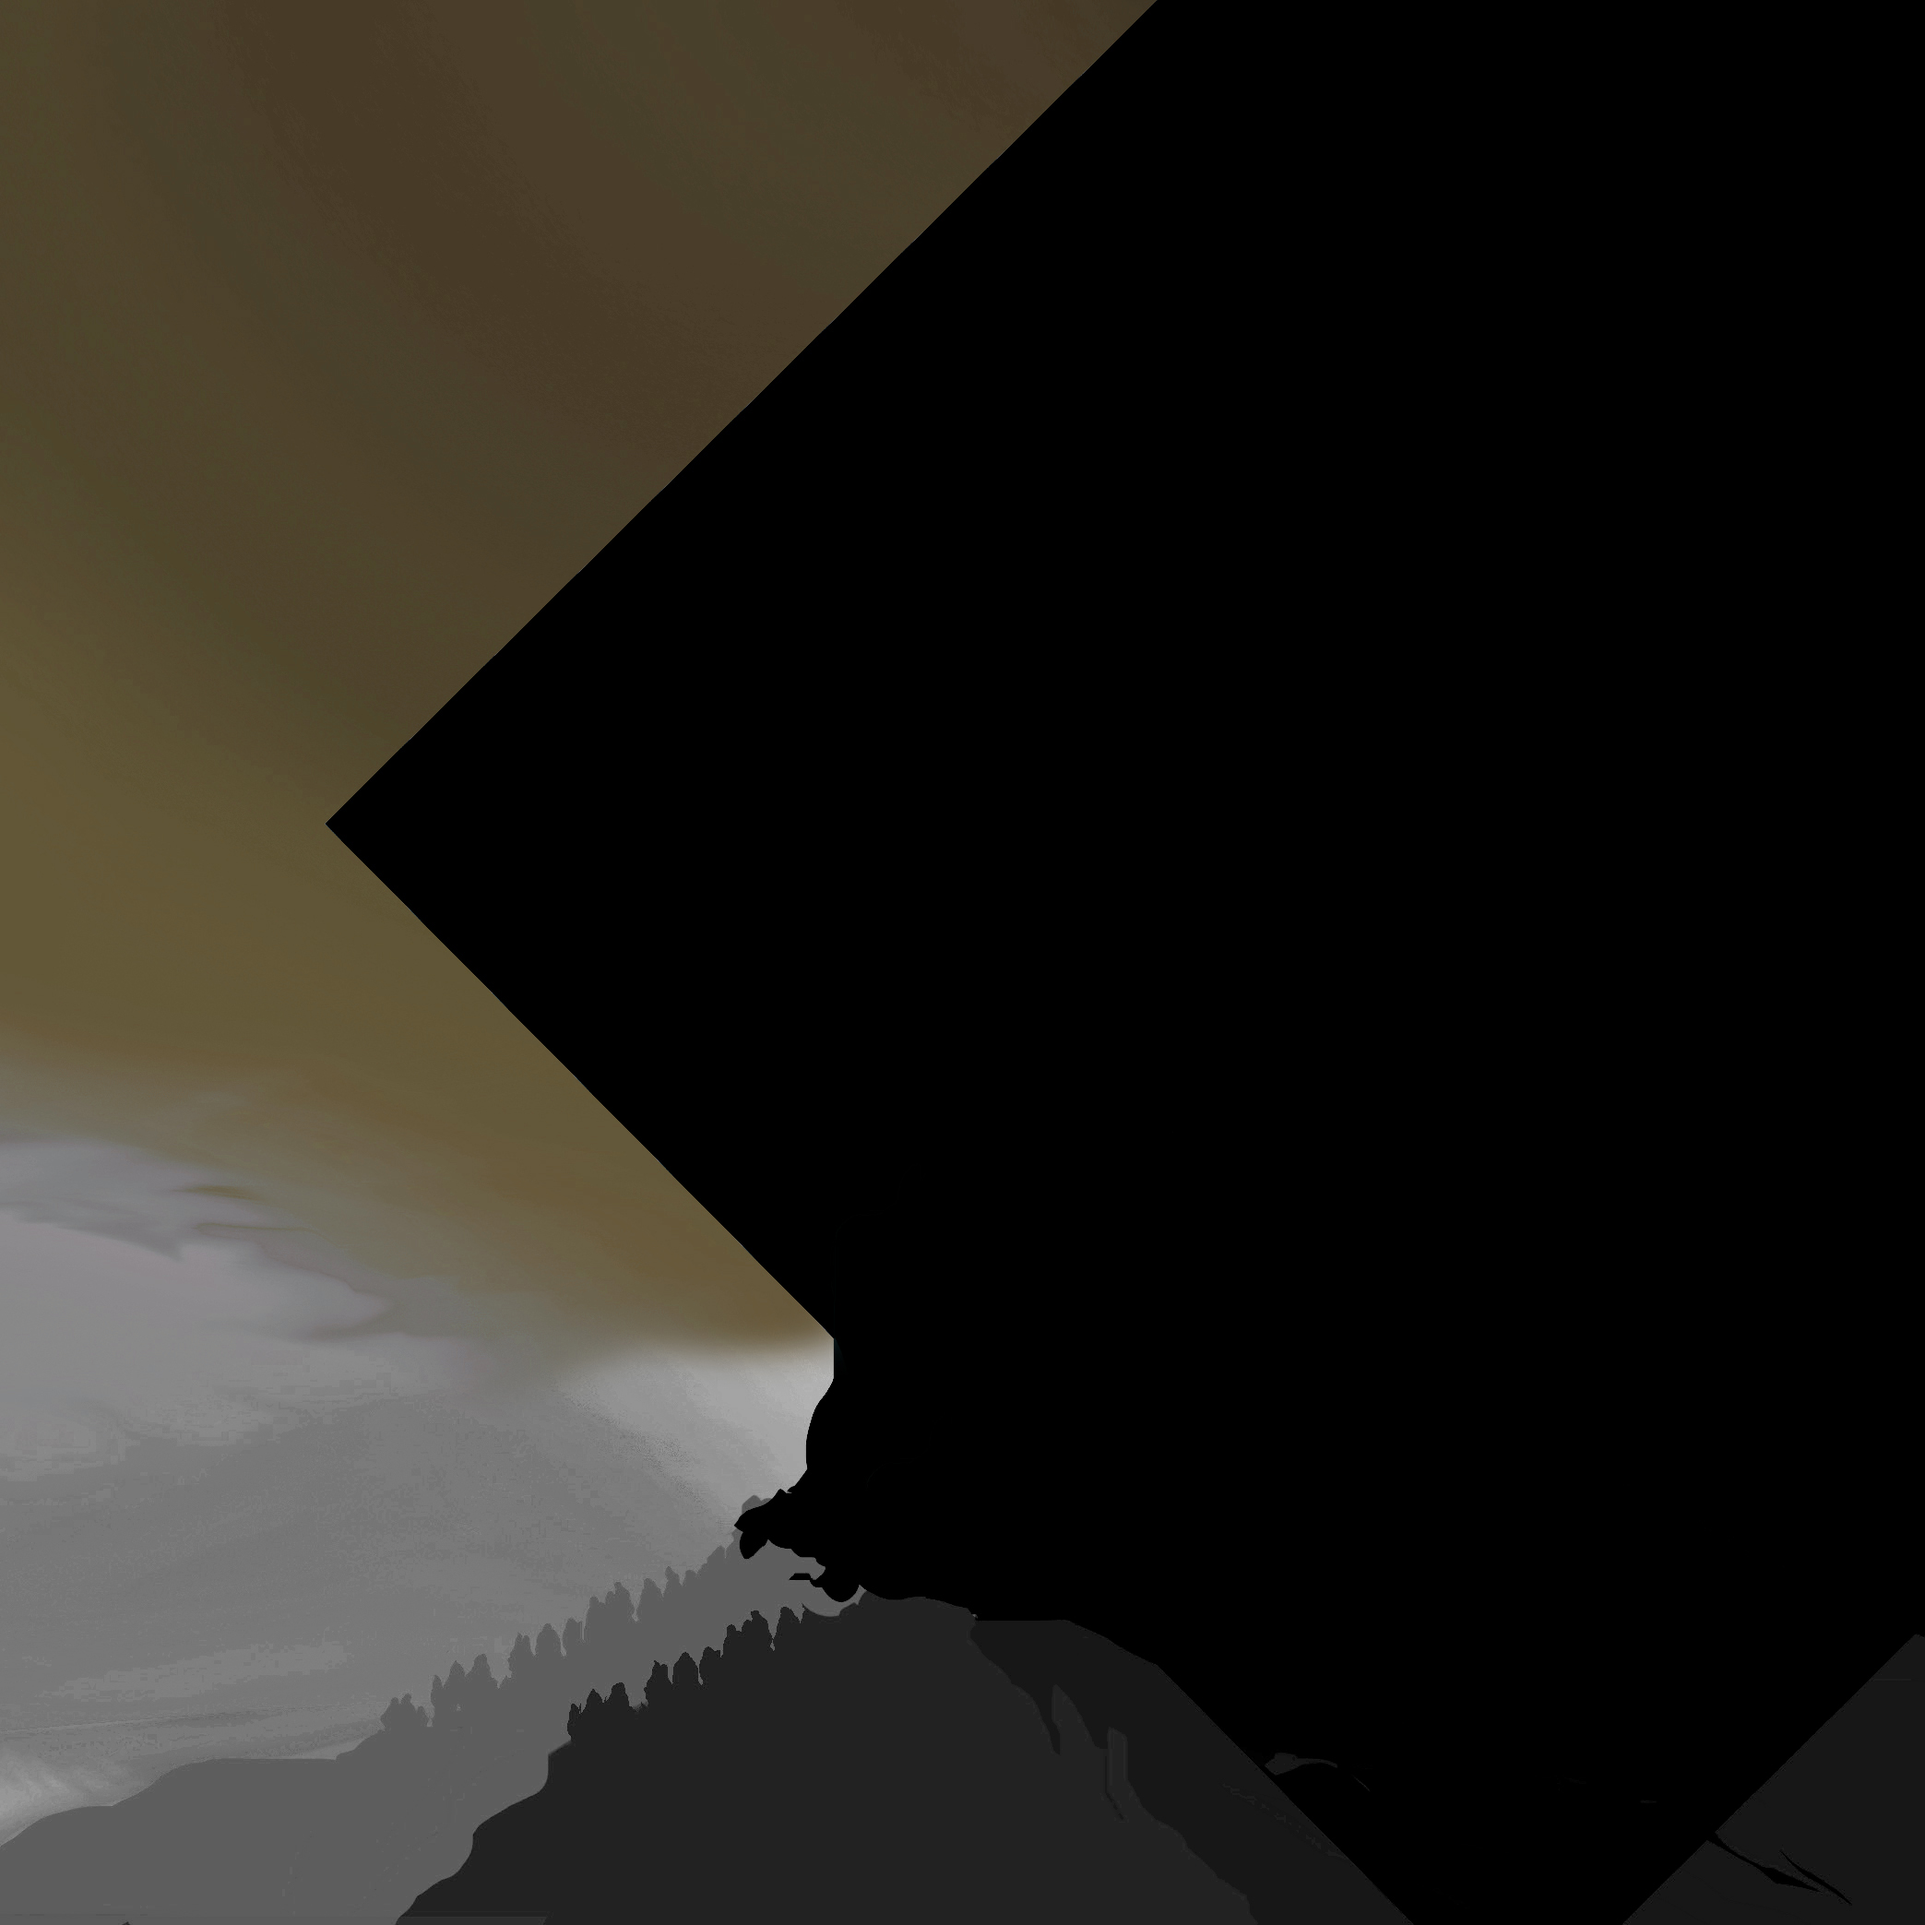
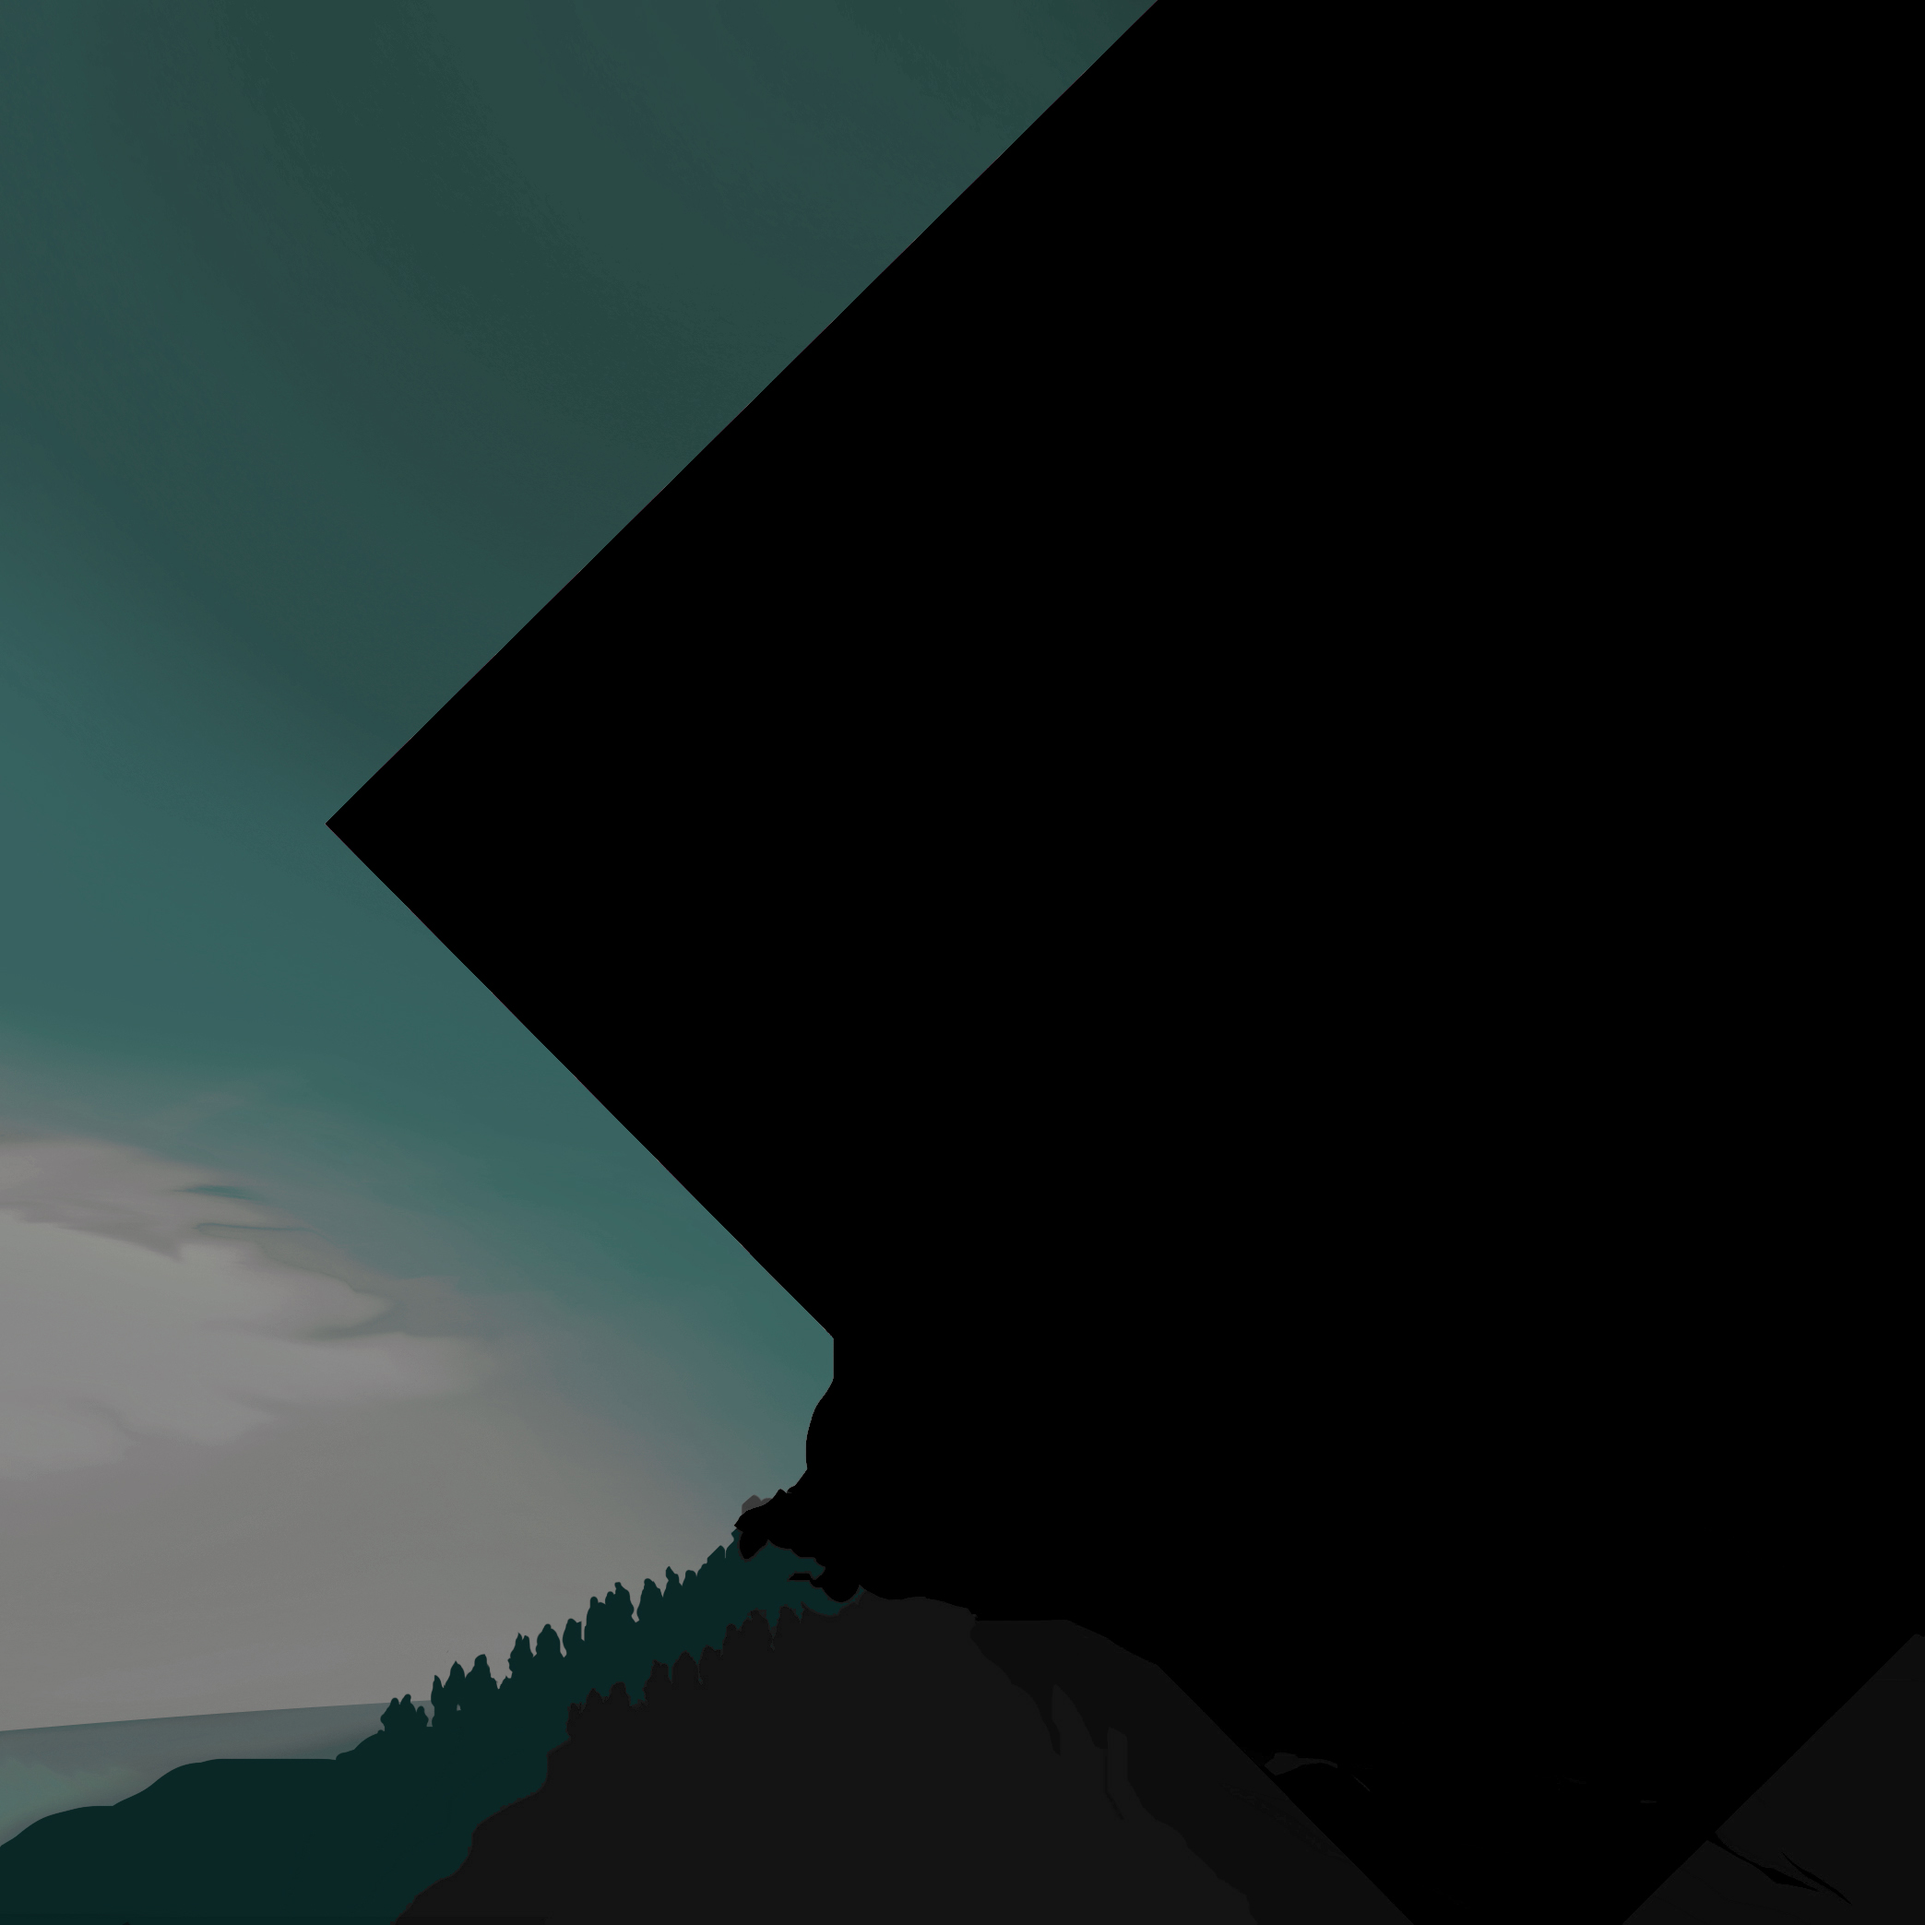
color corregido

Changed region(s): [[0.0, 0.0, 0.5918, 1.0]]

diff --git a/public/css/styles.css b/public/css/styles.css
@@ -12,24 +12,24 @@
 }
 
 body {
-  background-color: #181818;
+  background-color: #1b1b1b;
   border-bottom: 1px solid black;
 }
 
 h1 {
-  color: #f5a13d;
+  color: white;
   font-size: 1.25em;
   font-weight: lighter;
 }
 
 strong {
-  color: #ffbb68;
+  color: #00f8df;
   font-weight: normal;
 }
 
 h2 {
   font-size: 2rem;
-  color: #f5a13d;
+  color: #00f8df;
   font-family: "Space Mono", monospace;
   text-shadow: 0.15rem 0.15rem black;
 }
@@ -77,7 +77,7 @@ header .presentation h1 {
   line-height: 1.7em;
 }
 header .presentation strong {
-  color: white;
+  color: #00f8df;
 }
 header .presentation .avatar {
   border-radius: 100%;
@@ -93,7 +93,7 @@ header .presentation .avatar img {
 }
 
 nav {
-  background-color: #f5a13d;
+  background-color: #00f8df;
   padding: 1.3rem 0 1.3rem 0;
   max-width: 64rem;
   display: flex;
@@ -110,8 +110,8 @@ nav .menu-item {
 nav .menu-item li a {
   border-radius: 5px;
   border: 3px;
-  background-color: #f5a13d;
-  color: white;
+  background-color: #00f8df;
+  color: black;
   padding: 1rem 2rem 1rem 2rem;
   max-width: 8rem;
   text-align: center;
@@ -121,12 +121,12 @@ nav .menu-item li a:hover {
   border-radius: 5px;
   border: 3px;
   background-color: white;
-  color: #0f0707;
+  color: black;
   padding: 1rem 2rem 1rem 2rem;
   max-width: 8rem;
   text-align: center;
   font-weight: bolder;
-  box-shadow: 6px 6px #07224a;
+  box-shadow: 4px 4px black;
 }
 nav .toggle {
   display: none;
@@ -160,20 +160,12 @@ footer hr {
   margin: 0 auto;
 }
 
-.main {
-  max-width: 64rem;
-  color: #cccccc;
-  overflow: auto;
-  height: 45rem;
-  background: #002b3b;
-}
-
 section {
   max-width: 64rem;
 }
 
 .one {
-  background-color: #0f0707;
+  background-color: black;
 }
 .one h3 {
   padding: 2rem 0 1rem 0;
@@ -189,7 +181,7 @@ section {
 }
 
 .two {
-  background-color: #0f0707;
+  background-color: black;
 }
 .two .containerProyect {
   margin: 0 2rem 0 2rem;
@@ -210,8 +202,8 @@ section {
   max-width: 60%;
   border-radius: 5px;
   border: 3px;
-  background-color: #004e4e;
-  box-shadow: 6px 6px #07224a;
+  background-color: #004e41;
+  box-shadow: 6px 6px #003729;
 }
 .two .containerProyect .proyect1 .logoproyect {
   display: grid;
@@ -359,7 +351,7 @@ section {
 @media screen and (max-width: 960px) {
   .menu .menu-item-active {
     display: flex;
-    background-color: #f5a13d;
+    background-color: #7d0645;
     flex-direction: column;
     position: fixed;
     left: 0;
@@ -375,7 +367,7 @@ section {
   .menu .menu-item-active li a {
     border-radius: 5px;
     border: 3px;
-    background-color: #f5a13d;
+    background-color: #7d0645;
     color: white;
     padding: 1rem 2rem 1rem 2rem;
     max-width: 8rem;
@@ -386,7 +378,7 @@ section {
     border-radius: 5px;
     border: 3px;
     background-color: white;
-    color: #0f0707;
+    color: black;
     padding: 1rem 2rem 1rem 2rem;
     max-width: 8rem;
     text-align: center;

diff --git a/src/styles.scss b/src/styles.scss
@@ -14,12 +14,12 @@
 }
 
 body {
-    background-color: rgb(24, 24, 24);
+    background-color: $bg2-color;
     border-bottom: 1px solid rgb(0, 0, 0);
 }
 
 h1 {
-    color: $primary-color;
+    color: white;
     font-size: 1.25em;
     font-weight: lighter;
 }
@@ -31,7 +31,7 @@ strong {
 
 h2 {
     font-size: 2rem;
-    color: $primary-color;
+    color: $secondary-color;
     font-family: "Space Mono", monospace;
     text-shadow: 0.15rem 0.15rem black;
 }
@@ -76,7 +76,7 @@ header {
             line-height: 1.7em;
         }
         strong {
-            color: white;
+            color: $secondary-color;
         }
         .avatar {
             border-radius: 100%;
@@ -94,7 +94,7 @@ header {
 }
 
 nav {
-    background-color: $primary-color;
+    background-color: $secondary-color;
     padding: 1.3rem 0 1.3rem 0;
     @include container();
     display: flex;
@@ -108,11 +108,11 @@ nav {
         li {
             a {
                 @include border();
-                @include btn($background-color: $primary-color, $color: white);
+                @include btn($background-color: $secondary-color, $color: $bg-color);
                 &:hover {
                     @include border();
                     @include btn($background-color: white, $color: $bg-color);
-                    box-shadow: $box-shadow;
+                    box-shadow: 4px 4px $bg-color;
                 }
             }
         }
@@ -155,20 +155,6 @@ footer {
     }
 }
 
-.main {
-    @include container();
-    color: $font-color;
-    overflow: auto;
-    height: 45rem; //39.5rem 1024
-    //background: rgb(83, 1, 1);
-    //background: linear-gradient(180deg, rgba(83, 1, 1, 1) 22%, rgba(36, 9, 0, 1) 88%);
-    //background: rgb(83, 1, 1);
-    //background: linear-gradient(180deg, rgba(83, 1, 1, 1) 22%, rgba(157, 0, 122, 1) 88%);
-    //background: rgb(83, 13, 13);
-    //background: linear-gradient(180deg, rgba(83, 13, 13, 1) 15%, rgba(157, 0, 48, 1) 84%);
-    background: #002b3b;
-}
-
 section {
     @include container();
 }
@@ -207,8 +193,8 @@ section {
         .proyect1 {
             @include proyects();
             @include border();
-            background-color: rgb(0, 78, 78);
-            box-shadow: $box-shadow;
+            background-color: rgb(0, 78, 65);
+            box-shadow: 6px 6px #003729;
             .logoproyect {
                 display: grid;
                 justify-items: center;

diff --git a/public/index.html b/public/index.html
@@ -36,10 +36,10 @@
     <!-- One -->
     <section class="one m-auto py-3" id="conocimientos">
         <h3>Rodrigo Antonio Rivera Beltrán</h3>
-        <p> Analista Programador titulado en Inacap. Estoy en busca de mi primer empleo en el área del
-            desarrollo y tengo muchas ganas de seguir aprendiendo. Soy una persona respetuosa y honesta, con mucha
+        <p> Analista Programador titulado en Inacap. Soy una persona respetuosa y honesta, con mucha
             habilidad para el trabajo en equipo y capaz de tomar
-            el liderazgo si la situación lo amerita, mis conocimientos son los siguientes:</p>
+            el liderazgo si la situación lo amerita, siempre con ganas de seguir aprendiendo y buscando nuevos
+            desafíos, mis conocimientos son los siguientes:</p>
 
         <div class="skills py-4">
             <img src="img/icon/phpoff.png" onmouseover="this.src='img/icon/php.png'"
@@ -98,14 +98,15 @@
         <section class="m-auto">
             <div class="icons">
                 <a href="https://github.com/RhoSpace"><i class="fa-brands fa-github"></i></a>
-                <a href="https://www.linkedin.com/in/rodrigo-antonio-rivera-beltr%C3%A1n-b3b30922b/"><i class="fa-brands fa-linkedin"></i></a>
+                <a href="https://www.linkedin.com/in/rodrigo-antonio-rivera-beltr%C3%A1n-b3b30922b/"><i
+                        class="fa-brands fa-linkedin"></i></a>
                 <a href="https://www.instagram.com/rhospace/"><i class="fa-brands fa-instagram"></i></a>
                 <a id="copyEmail"><i class="fa-solid fa-envelope"></i></a>
             </div>
             <div class="textfooter">
                 <p>Portafolio Rodrigo Rivera 2022.</p>
             </div>
-           
+
         </section>
         <hr>
     </footer>

diff --git a/src/components/_vars.scss b/src/components/_vars.scss
@@ -1,7 +1,7 @@
-$primary-color: #f5a13d;
-$secondary-color: #ffbb68;
+$primary-color: #7d0645;
+$secondary-color: #00f8df;
 $font-color: rgb(204, 204, 204);
-$bg-color: rgb(15, 7, 7);
+$bg-color: rgb(0, 0, 0);
 $bg2-color:#1b1b1b;
 
 $box-shadow:6px 6px #07224a;
